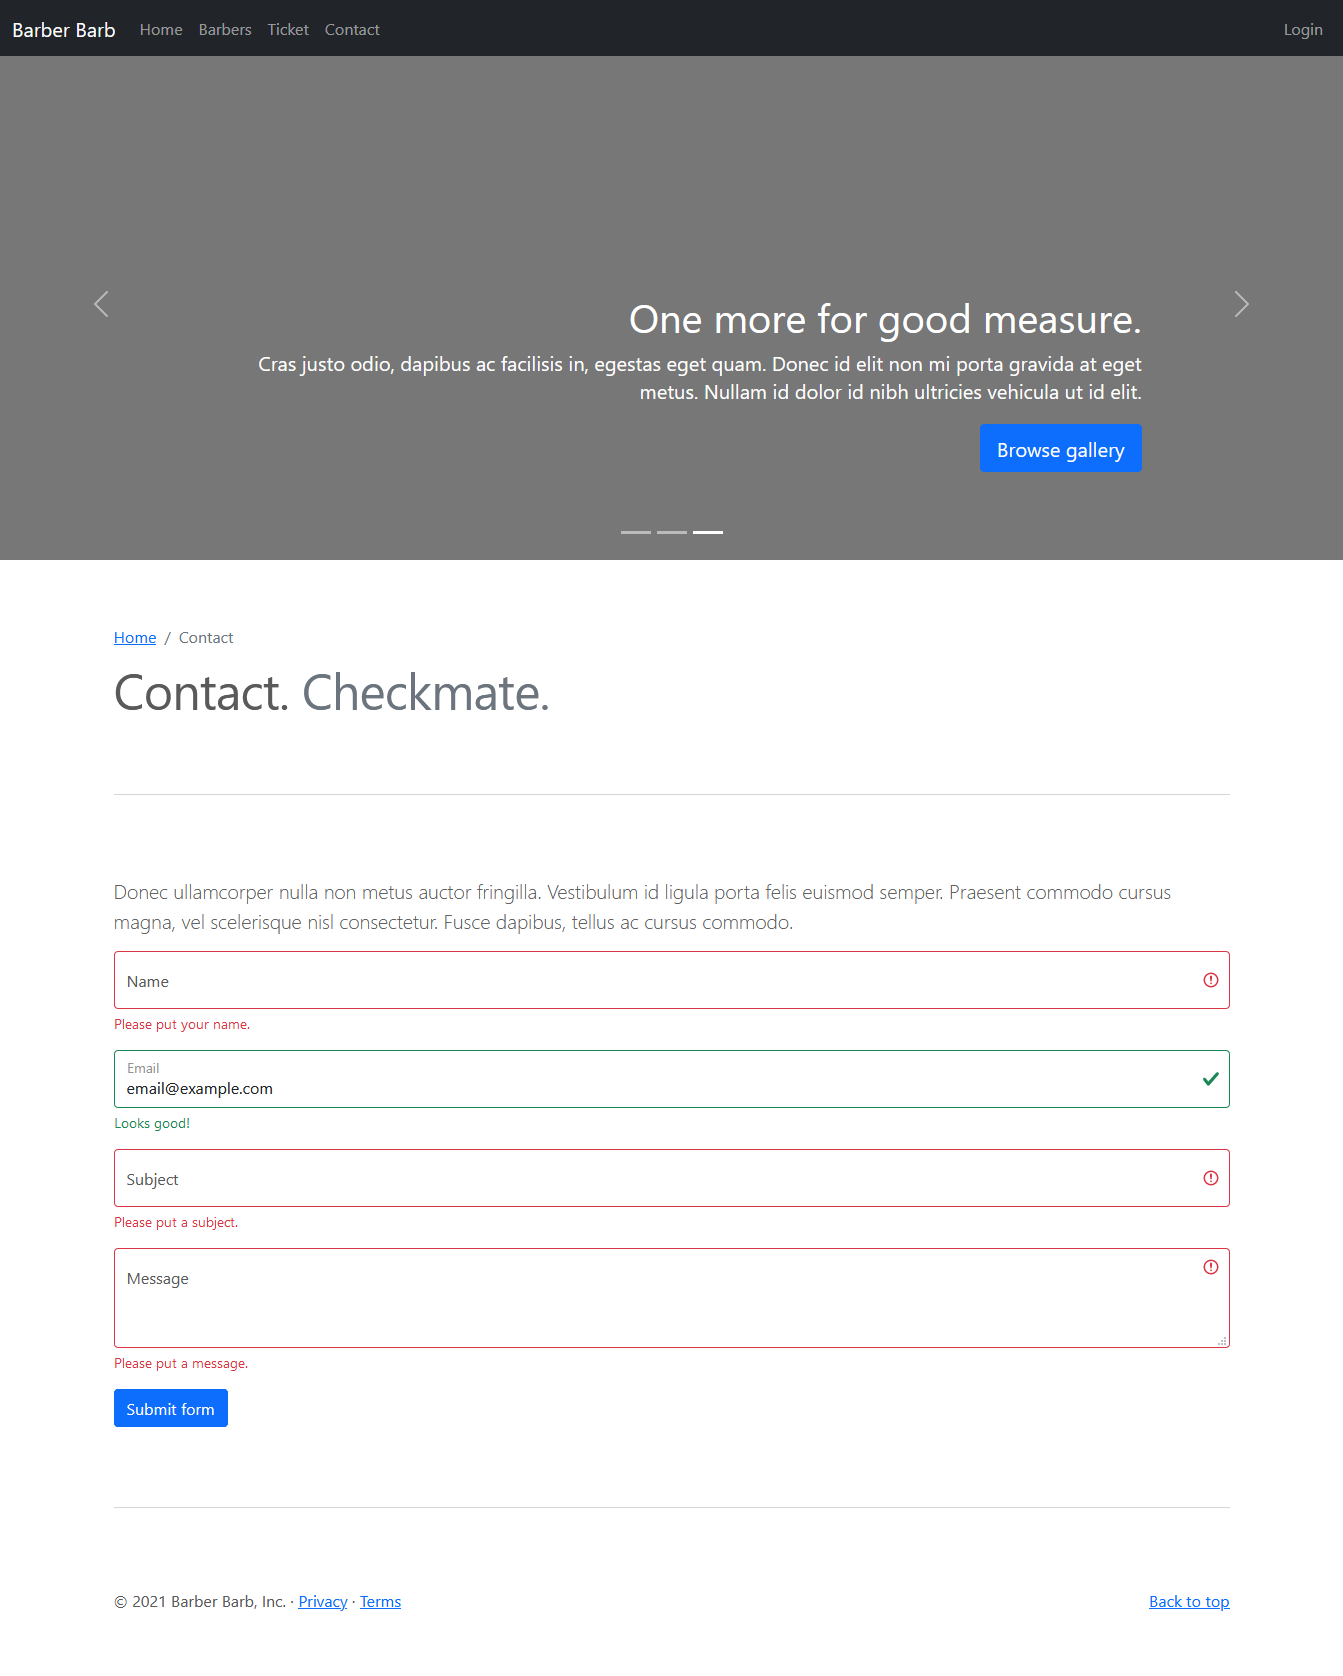
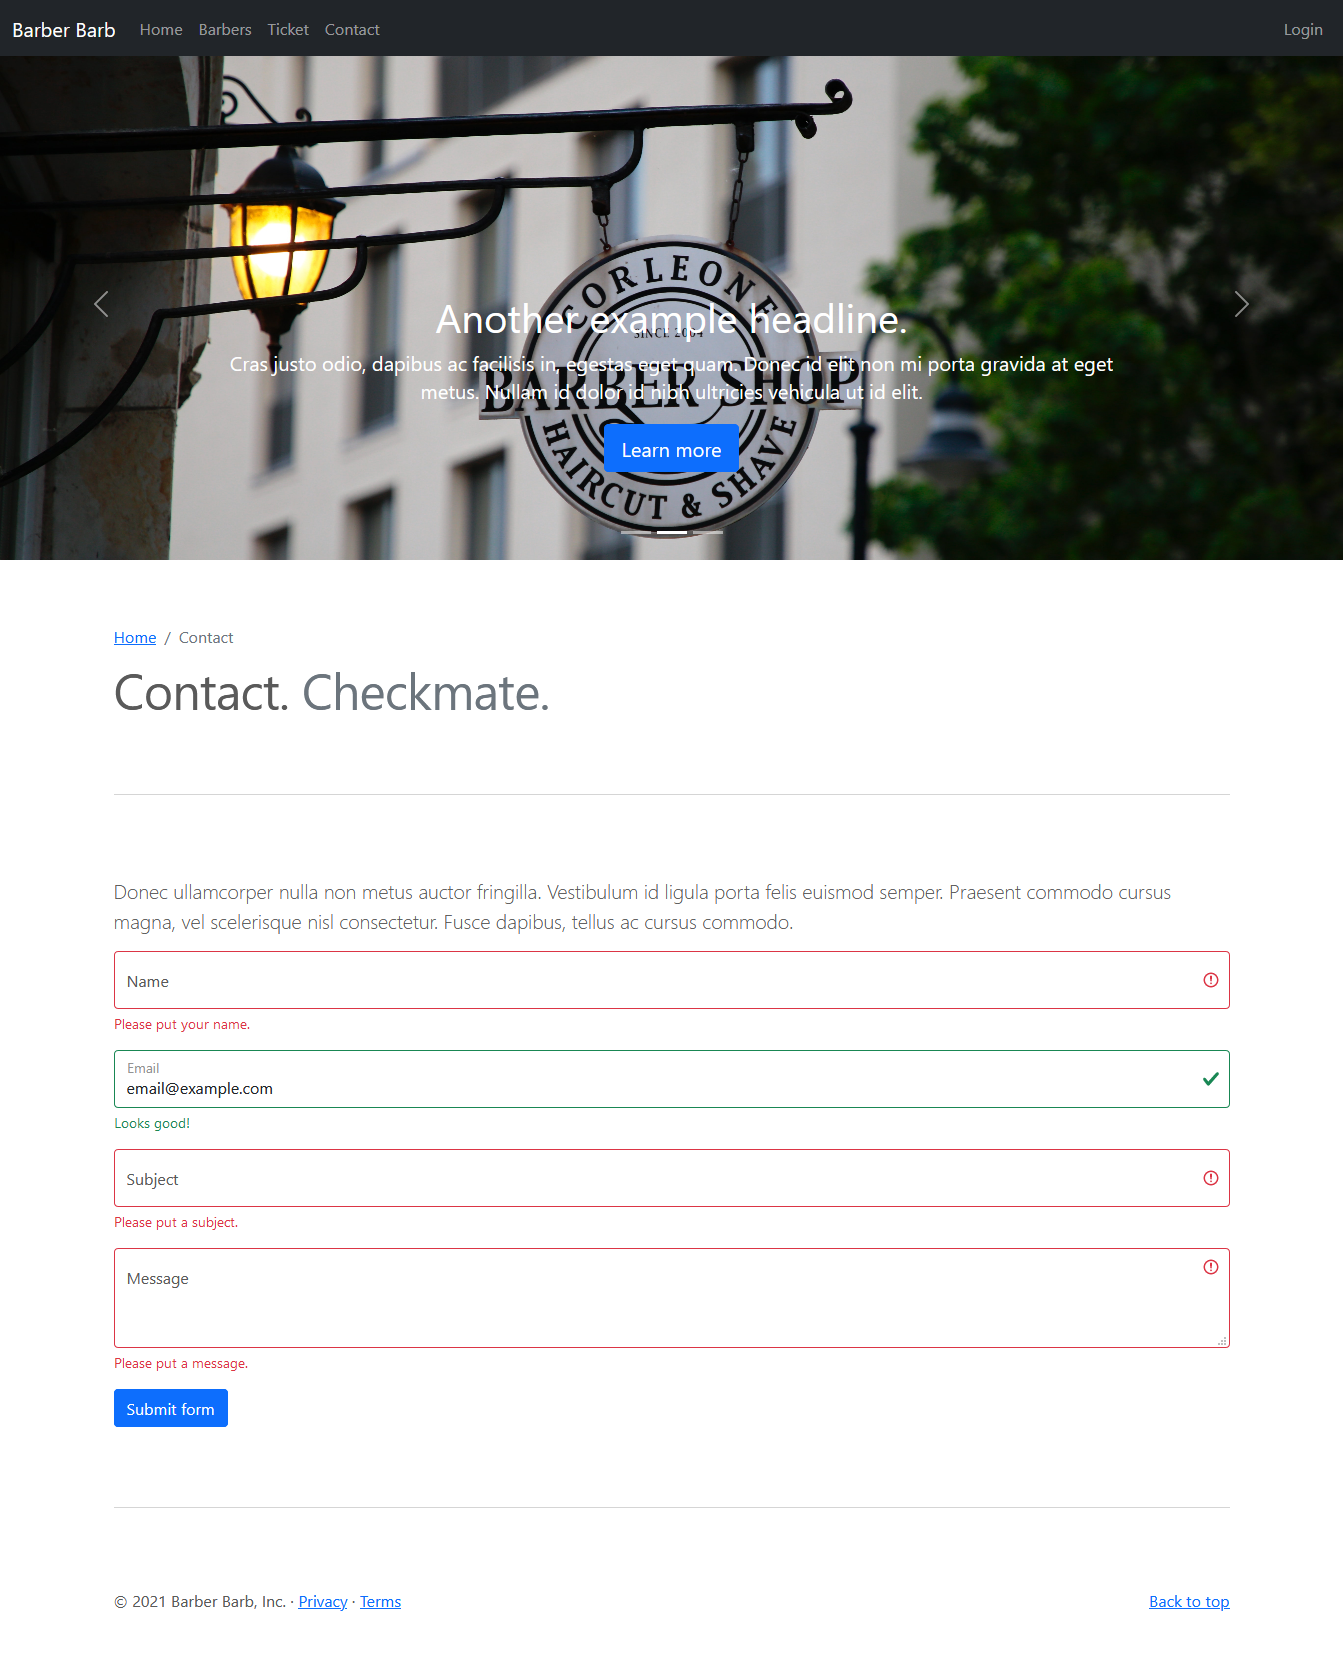
Add beautiful photos

Changed region(s): [[0.0, 0.031, 1.0, 0.3413]]

diff --git a/public/assets/css/app.css b/public/assets/css/app.css
@@ -25,14 +25,14 @@ body {
 /* Declare heights because of positioning of img element */
 .carousel-item {
   height: 32rem;
+  overflow: hidden;
 }
 
 .carousel-item > img {
   position: absolute;
-  top: 0;
+  top: 30%;
+  transform: translateY(-30%);
   left: 0;
-  min-width: 100%;
-  height: 32rem;
 }
 
 /* MARKETING CONTENT

diff --git a/app.rb b/app.rb
@@ -26,7 +26,7 @@ before do
 end
 
 get '/' do
-  erb :index
+  erb :home
 end
 
 get '/barbers' do

diff --git a/README.md b/README.md
@@ -24,7 +24,7 @@ Eres libre y tienes derecho de hacer todo lo que quieres :-)
 #### Pantallas:
 
 Página de inicio ->
-![Página de inicio](screenshots/index.png "Página de inicio")
+![Página de inicio](screenshots/home.png "Página de inicio")
 
 Lista de peluqueros ->
 ![Lista de peluqueros](screenshots/barbers.png "Lista de peluqueros")
@@ -46,3 +46,16 @@ Verificación del formulario ->
 
 Lista de citas ->
 ![Lista de citas](screenshots/customers.png "Lista de citas")
+
+#### Fotos:
+
+[Dan Gold](https://unsplash.com/@danielcgold?utm_source=unsplash&amp;utm_medium=referral&amp;utm_content=creditCopyText)
+[Hanns Adrian Böhme](https://unsplash.com/@adwirawien?utm_source=unsplash&amp;utm_medium=referral&amp;utm_content=creditCopyText)
+[Philipp Lansing](https://unsplash.com/@philipp_lansing?utm_source=unsplash&amp;utm_medium=referral&amp;utm_content=creditCopyText)
+
+[Vahid Kanani](https://unsplash.com/@vahidkanani?utm_source=unsplash&amp;utm_medium=referral&amp;utm_content=creditCopyText)
+[Ashkan Forouzani](https://unsplash.com/@ashkfor121?utm_source=unsplash&amp;utm_medium=referral&amp;utm_content=creditCopyText)
+[Nick Karvounis](https://unsplash.com/@nickkarvounis?utm_source=unsplash&amp;utm_medium=referral&amp;utm_content=creditCopyText)
+[Taylor Smith](https://unsplash.com/@whoistaylorsmith?utm_source=unsplash&amp;utm_medium=referral&amp;utm_content=creditCopyText)
+[Michael DeMoya](https://unsplash.com/@demoya?utm_source=unsplash&amp;utm_medium=referral&amp;utm_content=creditCopyText)
+[Slava Arkhipenko](https://unsplash.com/@s_faceless?utm_source=unsplash&amp;utm_medium=referral&amp;utm_content=creditCopyText)
